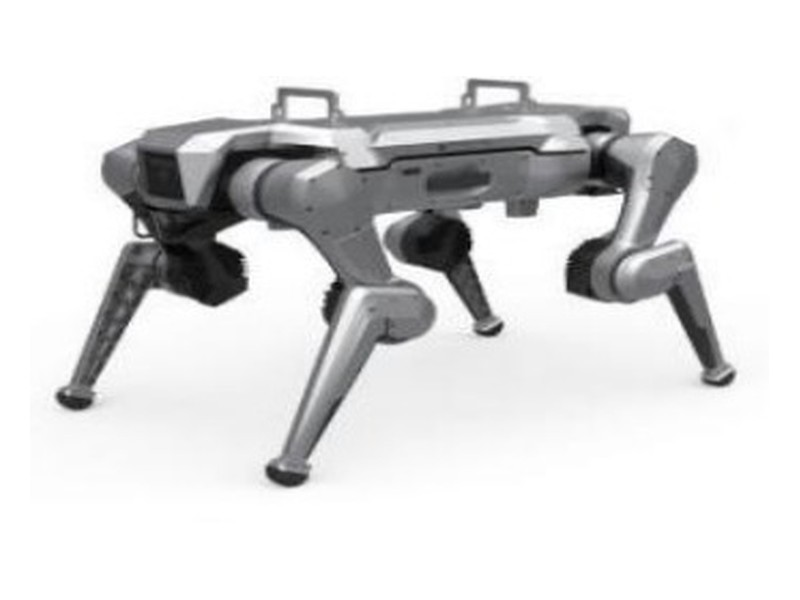
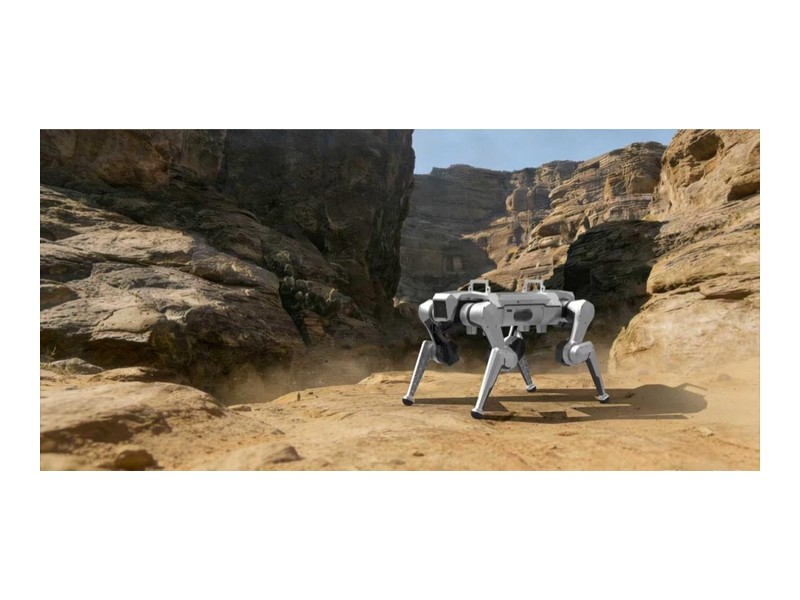
Update K9 BIONIC robot dog image

diff --git a/index.html b/index.html
@@ -2414,7 +2414,7 @@
       <div class="cat-list">
 
         <div class="cat-item" id="k9">
-          <div class="cat-img"><img src="assets/catalog/k9-quadruped.jpg" alt="" loading="lazy" decoding="async"><span class="badge">K9 · BIONIC</span></div>
+          <div class="cat-img"><img src="assets/catalog/k9-quadruped.jpg?v=2" alt="" loading="lazy" decoding="async"><span class="badge">K9 · BIONIC</span></div>
           <div class="cat-body">
             <h4><span class="lang-zh">户外全地形越野四足机器人</span><span class="lang-en">Outdoor All-Terrain Quadruped Robot</span></h4>
             <div class="cat-tag"><span class="lang-zh">仿生越野 · 空地集群协同</span><span class="lang-en">Bionic · Air-Ground Swarming</span></div>
